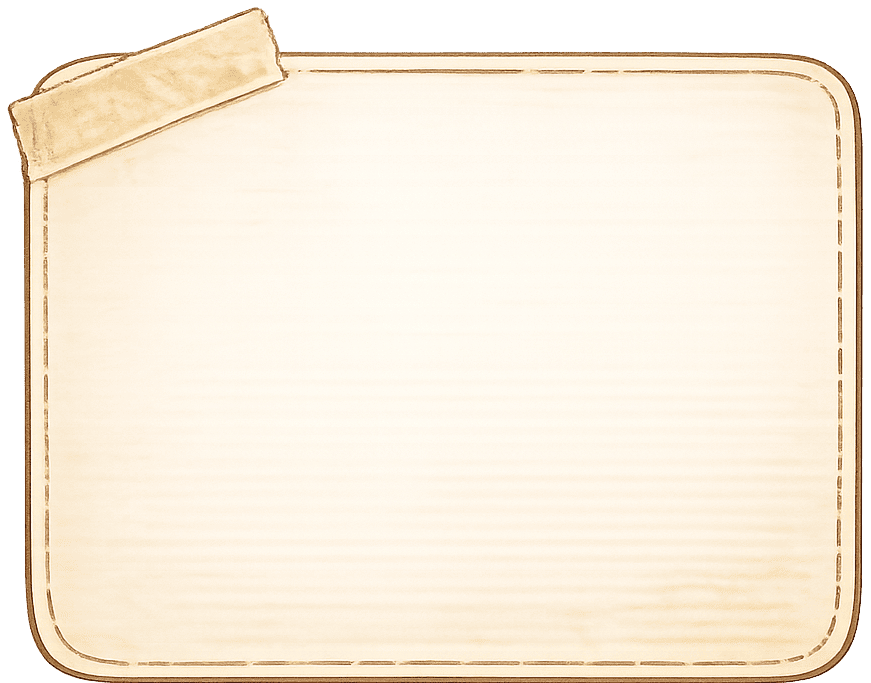
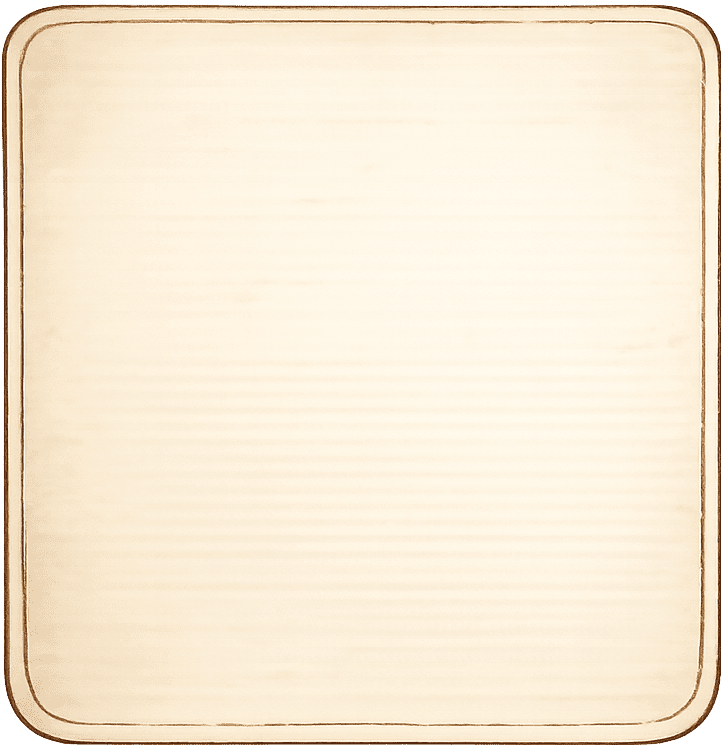
Fix : 팝업 디자인 수정2

Changed region(s): [[0.0, 0.0, 1.0, 1.0], [0.1831, 0.7687, 0.3356, 0.7994], [0.7628, 0.8609, 0.7933, 0.8917]]

diff --git a/lib/core/widgets/app_dialog.dart b/lib/core/widgets/app_dialog.dart
@@ -458,90 +458,121 @@ class _AppDialogWrapperState extends State<_AppDialogWrapper> {
             shape: RoundedRectangleBorder(
               borderRadius: BorderRadius.circular(24),
             ),
-            child: Container(
-              clipBehavior: Clip.antiAlias,
-              decoration: BoxDecoration(
-                borderRadius: BorderRadius.circular(24),
-                image: const DecorationImage(
-                  image: AssetImage('assets/images/Popup_Background.png'),
-                  fit: BoxFit.fill,
-                ),
-              ),
-              child: Padding(
-                padding: const EdgeInsets.fromLTRB(
-                    24, 40, 24, 28), // 상단 패딩을 늘려 전체적으로 내림
-                child: Column(
-                  mainAxisSize: MainAxisSize.min,
-                  crossAxisAlignment: CrossAxisAlignment.start,
-                  children: [
-                    // Title
-                    if (config.title.isNotEmpty) ...[
-                      Row(
-                        mainAxisAlignment: MainAxisAlignment.center,
-                        children: [
-                          if (config.leading != null) ...[
-                            config.leading!,
-                            const SizedBox(width: 10),
-                          ],
-                          Text(
-                            config.title,
-                            textAlign: TextAlign.center,
-                            style: const TextStyle(
-                              fontFamily: 'BMJUA',
-                              fontSize: 23,
-                              fontWeight: FontWeight.bold,
-                              color: Color(0xFF4E342E), // Dark Brown
-                            ),
-                          ),
-                        ],
-                      ),
-                      const SizedBox(height: 20),
-                    ],
-                    // Content
-                    if (config.content != null)
-                      DefaultTextStyle.merge(
-                        style: TextStyle(
-                          color: colors?.dialogBody ??
-                              Theme.of(context).textTheme.bodyMedium?.color,
-                        ),
-                        child: config.content!,
-                      ),
-                    if (_errorMessage != null)
-                      Padding(
-                        padding: const EdgeInsets.only(top: 12),
-                        child: Text(
-                          _errorMessage!,
-                          style: TextStyle(
-                            color: colors?.error ?? Colors.red,
-                            fontSize: 13,
-                            fontWeight: FontWeight.w500,
-                          ),
+            child: Stack(
+              clipBehavior: Clip.none,
+              children: [
+                // Background Container with rounded corners
+                Container(
+                  clipBehavior: Clip.antiAlias,
+                  decoration: BoxDecoration(
+                    borderRadius: BorderRadius.circular(24),
+                  ),
+                  child: Stack(
+                    children: [
+                      // Background Image
+                      Positioned.fill(
+                        child: Image.asset(
+                          'assets/images/Popup_Background.png',
+                          fit: BoxFit.fill,
                         ),
                       ),
-                    // Actions
-                    if (config.actions.isNotEmpty) ...[
-                      const SizedBox(height: 24),
+                      // Content
                       Padding(
-                        padding: const EdgeInsets.symmetric(horizontal: 12),
-                        child: Row(
-                          mainAxisAlignment:
-                              config.actionsAlignment ?? MainAxisAlignment.end,
-                          children: config.actions
-                              .map((action) => Expanded(
-                                    child: Padding(
-                                      padding: const EdgeInsets.symmetric(
-                                          horizontal: 4),
-                                      child: AppDialog._buildActionButton(
-                                          context, action, colors),
+                        padding: const EdgeInsets.fromLTRB(
+                            24, 40, 24, 28), // 상단 패딩을 늘려 전체적으로 내림
+                        child: Column(
+                          mainAxisSize: MainAxisSize.min,
+                          crossAxisAlignment: CrossAxisAlignment.start,
+                          children: [
+                            // Title
+                            if (config.title.isNotEmpty) ...[
+                              Row(
+                                mainAxisAlignment: MainAxisAlignment.center,
+                                children: [
+                                  if (config.leading != null) ...[
+                                    config.leading!,
+                                    const SizedBox(width: 10),
+                                  ],
+                                  Text(
+                                    config.title,
+                                    textAlign: TextAlign.center,
+                                    style: const TextStyle(
+                                      fontFamily: 'BMJUA',
+                                      fontSize: 23,
+                                      fontWeight: FontWeight.bold,
+                                      color: Color(0xFF4E342E), // Dark Brown
                                     ),
-                                  ))
-                              .toList(),
+                                  ),
+                                ],
+                              ),
+                              const SizedBox(height: 20),
+                            ],
+                            // Content
+                            if (config.content != null)
+                              DefaultTextStyle.merge(
+                                style: TextStyle(
+                                  color: colors?.dialogBody ??
+                                      Theme.of(context)
+                                          .textTheme
+                                          .bodyMedium
+                                          ?.color,
+                                ),
+                                child: config.content!,
+                              ),
+                            if (_errorMessage != null)
+                              Padding(
+                                padding: const EdgeInsets.only(top: 12),
+                                child: Text(
+                                  _errorMessage!,
+                                  style: TextStyle(
+                                    color: colors?.error ?? Colors.red,
+                                    fontSize: 13,
+                                    fontWeight: FontWeight.w500,
+                                  ),
+                                ),
+                              ),
+                            // Actions
+                            if (config.actions.isNotEmpty) ...[
+                              const SizedBox(height: 24),
+                              Padding(
+                                padding:
+                                    const EdgeInsets.symmetric(horizontal: 12),
+                                child: Row(
+                                  mainAxisAlignment: config.actionsAlignment ??
+                                      MainAxisAlignment.end,
+                                  children: config.actions
+                                      .map((action) => Expanded(
+                                            child: Padding(
+                                              padding:
+                                                  const EdgeInsets.symmetric(
+                                                      horizontal: 4),
+                                              child:
+                                                  AppDialog._buildActionButton(
+                                                      context, action, colors),
+                                            ),
+                                          ))
+                                      .toList(),
+                                ),
+                              ),
+                            ],
+                          ],
                         ),
                       ),
                     ],
-                  ],
+                  ),
                 ),
-              ),
+                // Sticker Image (왼쪽 위) - 배경 Container 밖에 배치
+                Positioned(
+                  top: -25,
+                  left: -10,
+                  child: Image.asset(
+                    'assets/images/Popup_Sticker.png',
+                    width: 120,
+                    height: 120,
+                    fit: BoxFit.contain,
+                  ),
+                ),
+              ],
             ),
           ),
         ),

diff --git a/lib/features/social/screens/friend_room_screen.dart b/lib/features/social/screens/friend_room_screen.dart
@@ -141,68 +141,85 @@ class _FriendRoomScreenState extends State<FriendRoomScreen>
                               // Header
                               Padding(
                                 padding: const EdgeInsets.all(16.0),
-                                child: Row(
-                                  children: [
-                                    IconButton(
-                                      icon: Icon(Icons.arrow_back,
-                                          color: textColor),
-                                      onPressed: () => Navigator.pop(context),
-                                    ),
-                                    Expanded(
-                                      child: Column(
-                                        crossAxisAlignment:
-                                            CrossAxisAlignment.start,
-                                        children: [
-                                          Text(
-                                            '${_friend!.nickname}',
-                                            style: Theme.of(context)
-                                                .textTheme
-                                                .titleLarge
-                                                ?.copyWith(
-                                                  color: textColor,
-                                                  fontWeight: FontWeight.bold,
-                                                ),
-                                          ),
-                                          const SizedBox(height: 4),
-                                          Text(
-                                            '${_friend!.consecutiveDays}일 연속 기록 중 🔥',
-                                            style: Theme.of(context)
-                                                .textTheme
-                                                .bodyMedium
-                                                ?.copyWith(
-                                                  color: textColor
-                                                      .withOpacity(0.8),
-                                                ),
-                                          ),
-                                        ],
-                                      ),
-                                    ),
-                                    // 레벨 표시 버튼
-                                    Stack(
-                                      alignment: Alignment.center,
+                                child: LayoutBuilder(
+                                  builder: (context, constraints) {
+                                    final isSmallScreen =
+                                        constraints.maxWidth < 350;
+                                    return Row(
                                       children: [
-                                        Image.asset(
-                                          'assets/images/Button_Background.png',
-                                          width: 100,
-                                          height: 60,
-                                          fit: BoxFit.fill,
+                                        IconButton(
+                                          icon: Icon(Icons.arrow_back,
+                                              color: textColor),
+                                          onPressed: () =>
+                                              Navigator.pop(context),
+                                          padding: EdgeInsets.zero,
+                                          constraints: const BoxConstraints(),
                                         ),
-                                        Padding(
-                                          padding:
-                                              const EdgeInsets.only(top: 2),
-                                          child: Text(
-                                            'Lv.${_friend!.characterLevel}',
-                                            style: const TextStyle(
-                                              fontFamily: 'BMJUA',
-                                              fontSize: 20,
-                                              fontWeight: FontWeight.bold,
-                                              color: Color(0xFF4E342E),
-                                            ),
+                                        const SizedBox(width: 8),
+                                        Expanded(
+                                          child: Column(
+                                            crossAxisAlignment:
+                                                CrossAxisAlignment.start,
+                                            children: [
+                                              Text(
+                                                '${_friend!.nickname}',
+                                                style: Theme.of(context)
+                                                    .textTheme
+                                                    .titleLarge
+                                                    ?.copyWith(
+                                                      color: textColor,
+                                                      fontWeight:
+                                                          FontWeight.bold,
+                                                    ),
+                                                overflow: TextOverflow.ellipsis,
+                                              ),
+                                              if (!isSmallScreen) ...[
+                                                const SizedBox(height: 4),
+                                                Text(
+                                                  '${_friend!.consecutiveDays}일 연속 기록 중 🔥',
+                                                  style: Theme.of(context)
+                                                      .textTheme
+                                                      .bodyMedium
+                                                      ?.copyWith(
+                                                        color: textColor
+                                                            .withOpacity(0.8),
+                                                      ),
+                                                  overflow:
+                                                      TextOverflow.ellipsis,
+                                                ),
+                                              ],
+                                            ],
                                           ),
+                                        ),
+                                        const SizedBox(width: 8),
+                                        // 레벨 표시 버튼
+                                        Stack(
+                                          alignment: Alignment.center,
+                                          children: [
+                                            Image.asset(
+                                              'assets/images/Button_Background.png',
+                                              width: 70,
+                                              height: 42,
+                                              fit: BoxFit.fill,
+                                            ),
+                                            Padding(
+                                              padding:
+                                                  const EdgeInsets.only(top: 2),
+                                              child: Text(
+                                                'Lv.${_friend!.characterLevel}',
+                                                style: const TextStyle(
+                                                  fontFamily: 'BMJUA',
+                                                  fontSize: 15,
+                                                  fontWeight: FontWeight.bold,
+                                                  color: Color(0xFF4E342E),
+                                                ),
+                                              ),
+                                            ),
+                                          ],
                                         ),
                                       ],
-                                    ),
-                                  ],
+                                    );
+                                  },
                                 ),
                               ),
 
